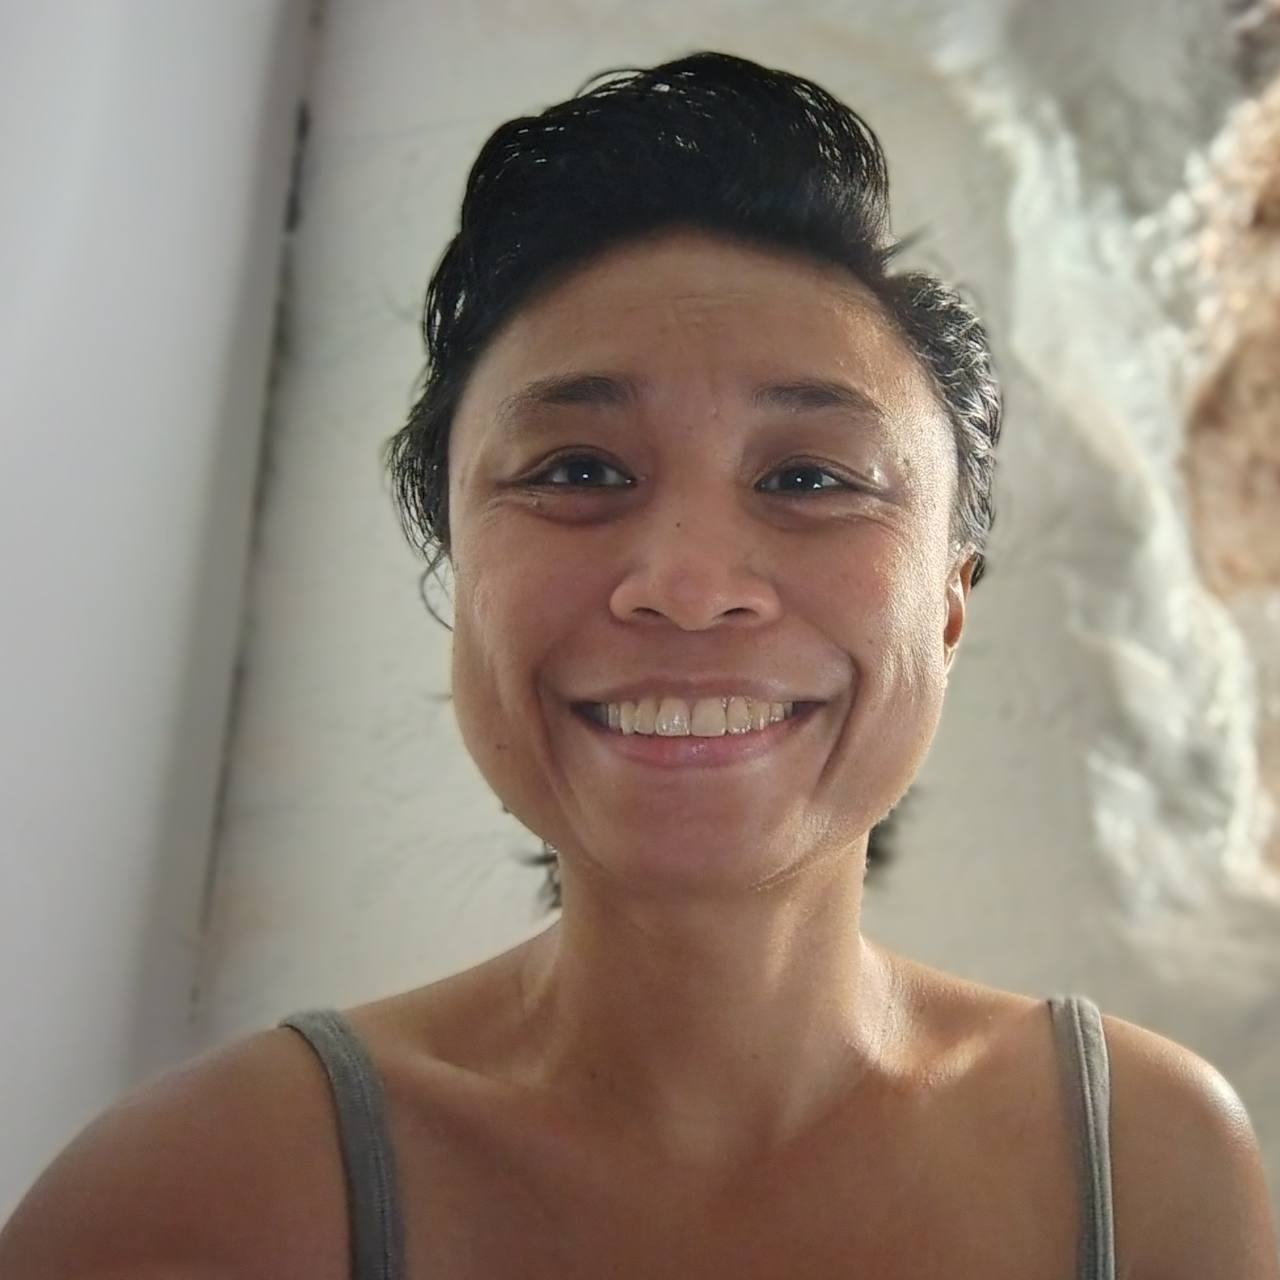
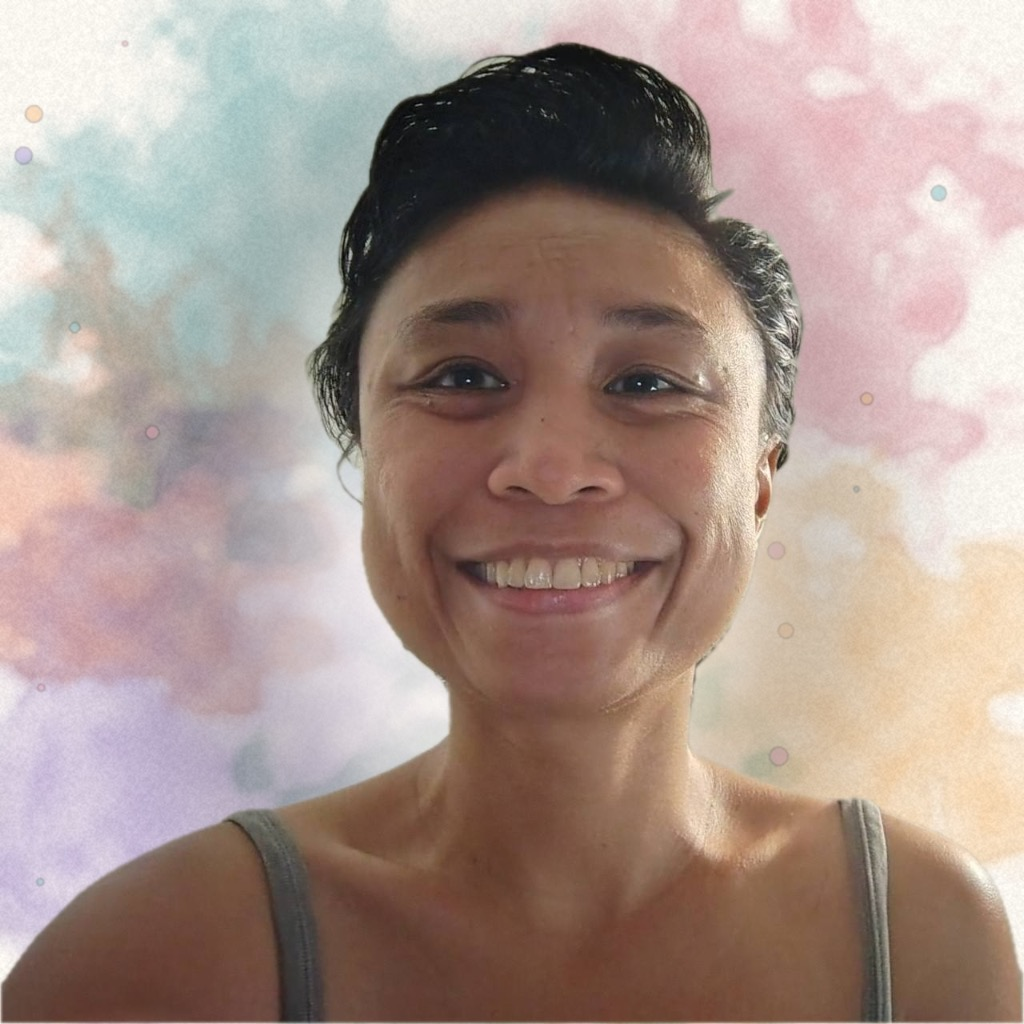
Update portrait, align hero headshot, and streamline navigation

diff --git a/index.html b/index.html
@@ -155,7 +155,6 @@ justify-content:space-between;
 padding:26px 40px;
 background:rgba(245,245,243,.85);
 backdrop-filter:blur(10px);
-border-bottom:1px solid var(--line);
 }
 
 .logo{
@@ -169,38 +168,35 @@ text-decoration:none;
 nav{
 position:fixed;
 top:50%;
-right:18px;
+right:24px;
 z-index:190;
-width:126px;
+width:auto;
 height:auto;
-padding:14px 10px;
+padding:0;
 transform:translateY(-50%);
-background:rgba(245,245,243,.94);
-border:1px solid var(--line);
-border-radius:16px;
-backdrop-filter:blur(12px);
+background:transparent;
+border:none;
 }
 
 nav ul{
 display:flex;
 flex-direction:column;
 list-style:none;
-gap:3px;
+gap:4px;
 }
 
 nav a{
 display:block;
-padding:10px 9px;
-border-radius:8px;
+padding:8px 10px;
 text-decoration:none;
 color:var(--black);
 font-size:.68rem;
 font-weight:600;
 letter-spacing:1.15px;
-transition:background .2s ease;
+transition:color .2s ease, opacity .2s ease;
 }
 nav a:hover{
-background:#fff;
+color:var(--gray);
 }
 
 .nav-toggle{
@@ -284,7 +280,7 @@ padding-top:160px;
 .hero-grid{
 display:grid;
 grid-template-columns:1.2fr .8fr;
-align-items:end;
+align-items:center;
 gap:60px;
 }
 
@@ -301,6 +297,7 @@ margin-top:20px;
 .hero-photo{
 position:relative;
 justify-self:end;
+align-self:center;
 }
 
 .hero-photo img{
@@ -312,18 +309,6 @@ display:block;
 border:8px solid #f5f5f3;
 border-radius:50%;
 box-shadow:0 0 0 1px var(--line);
-}
-
-.hero-photo-tag{
-position:absolute;
-bottom:-18px;
-left:-18px;
-background:var(--black);
-color:#fff;
-font-size:.7rem;
-font-weight:600;
-letter-spacing:1.5px;
-padding:10px 16px;
 }
 
 /* about */
@@ -654,13 +639,13 @@ body{padding-right:0;}
 .nav-toggle{display:flex;z-index:201;}
 nav{
 top:92px;right:20px;width:min(280px,calc(100vw - 40px));height:auto;padding:0;transform:translateY(-8px);
-background:rgba(255,255,255,.98);border:1px solid var(--line);border-radius:16px;box-shadow:0 20px 60px rgba(0,0,0,.14);
+background:rgba(255,255,255,.98);border:none;border-radius:16px;box-shadow:0 20px 60px rgba(0,0,0,.14);
 max-height:0;overflow:hidden;visibility:hidden;opacity:0;pointer-events:none;
 transition:max-height .35s ease,opacity .2s ease,transform .2s ease,visibility .35s;
 }
 nav.open{max-height:min(440px,calc(100vh - 120px));overflow-y:auto;visibility:visible;opacity:1;pointer-events:auto;transform:translateY(0);}
 nav ul{flex-direction:column;gap:0;padding:12px;}
-nav a{padding:14px 12px;border-bottom:1px solid var(--line);border-radius:8px;color:var(--black);}
+nav a{padding:14px 12px;border:none;border-radius:8px;color:var(--black);}
 nav li:last-child a{border-bottom:none;}
 nav a:hover{background:var(--off);}
 h1{font-size:4.5rem;}
@@ -719,7 +704,6 @@ Websites · Automation · Digital Systems — helping businesses work smarter th
 
 <div class="hero-photo">
 <img src="images/grace-villarino.jpg" alt="Grace Villarino">
-<div class="hero-photo-tag">GRACE VILLARINO</div>
 </div>
 
 </div>
